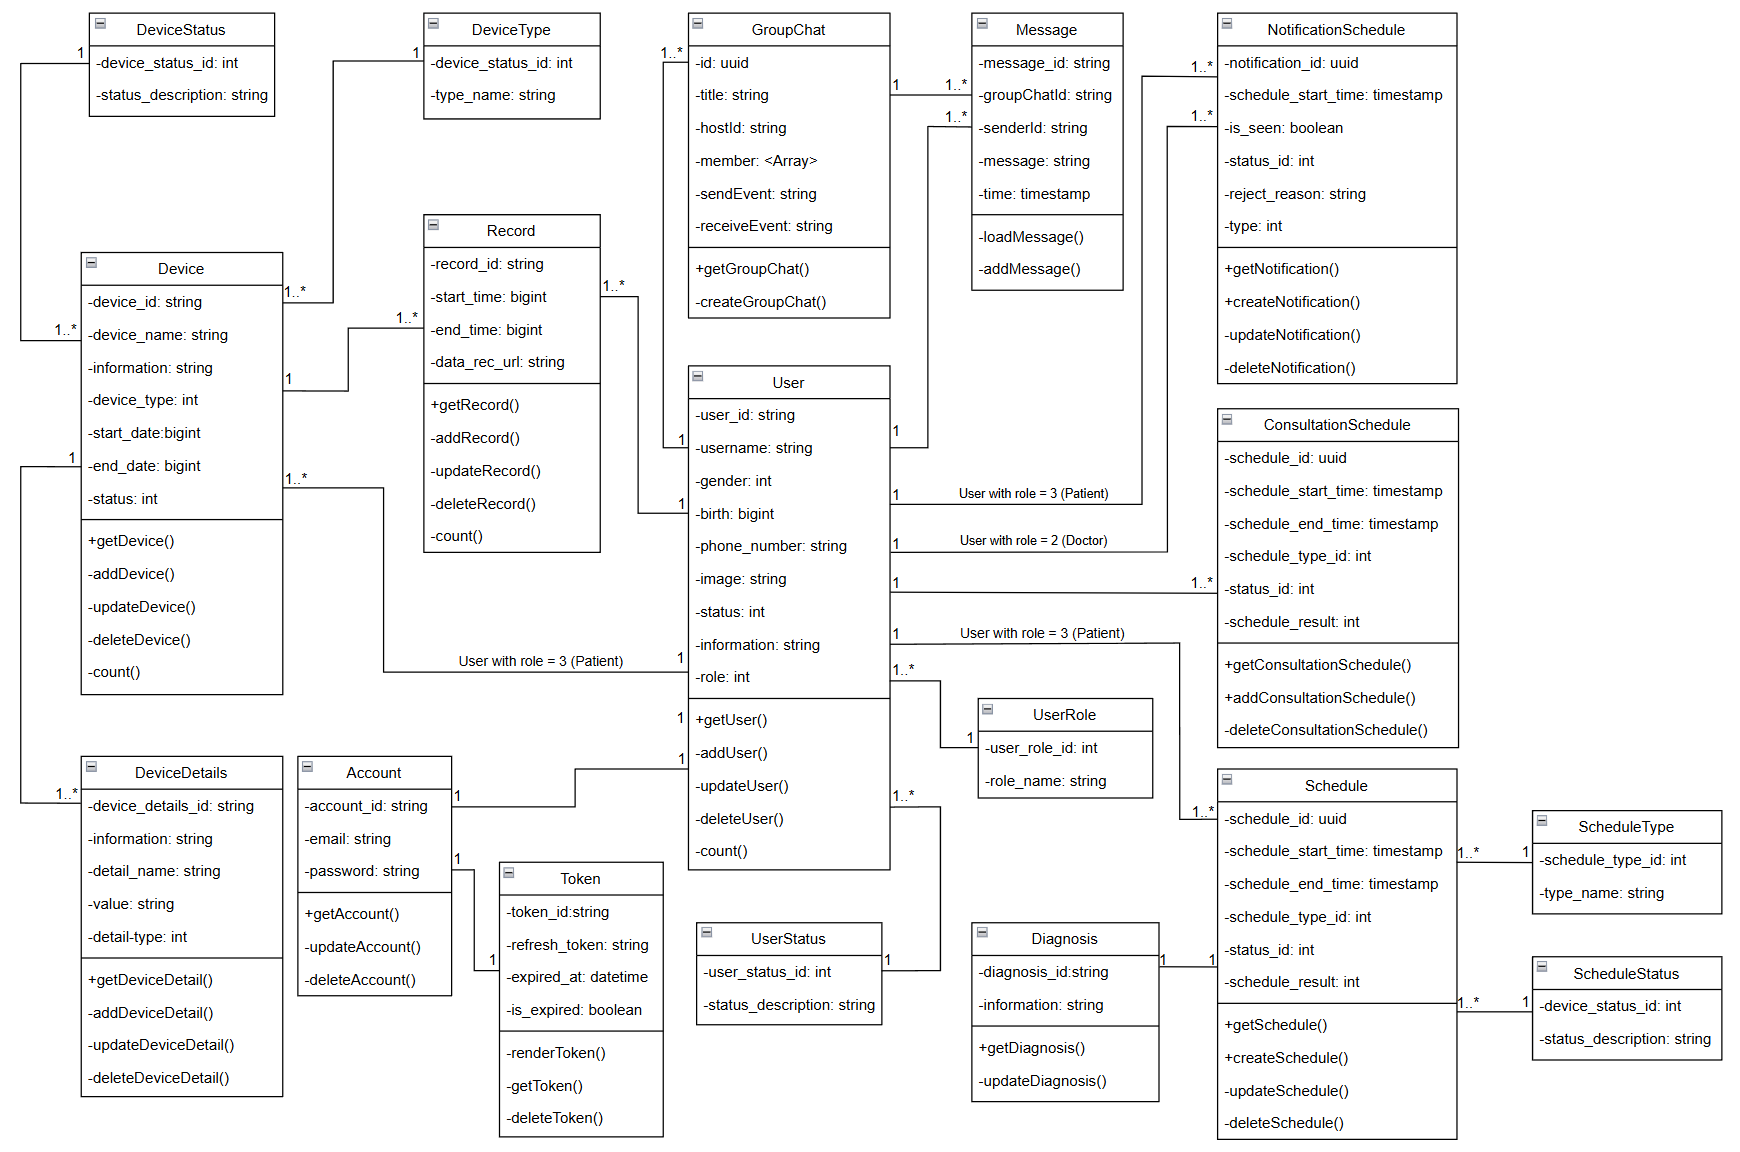
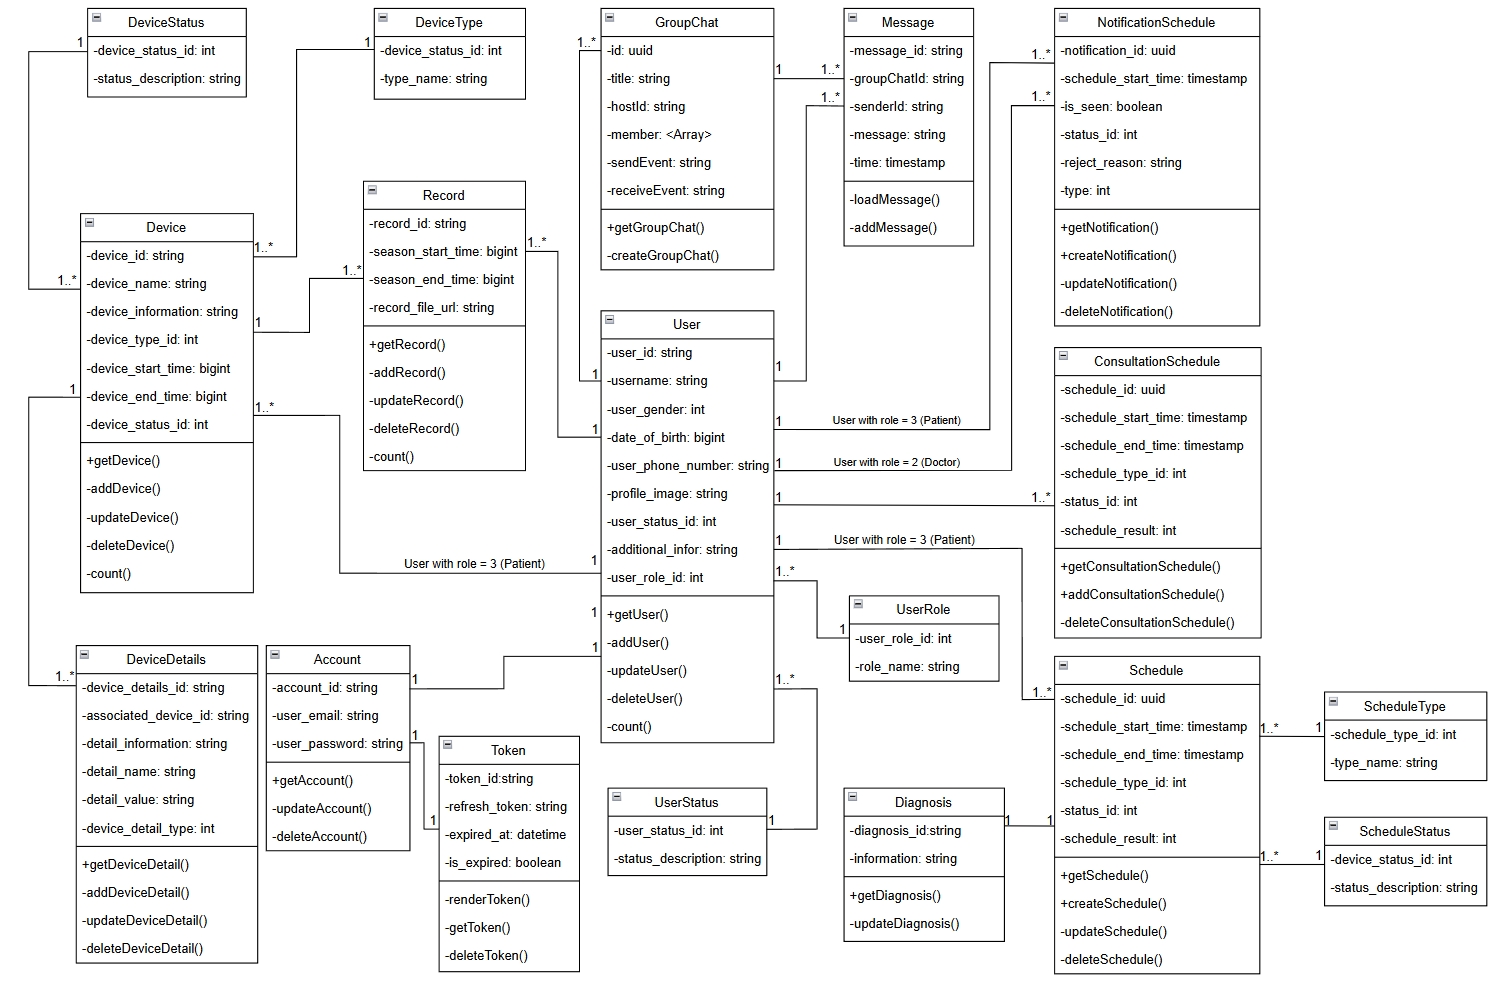
improve(latex): change some field's name in chapter 2

Changed region(s): [[0.0, 0.0, 0.998, 1.0], [0.8109, 0.1822, 0.8421, 0.2429], [0.3119, 0.668, 0.3431, 0.6984]]

diff --git a/latex_20241/Chapter/Main_content/chapter2.tex b/latex_20241/Chapter/Main_content/chapter2.tex
@@ -26,7 +26,7 @@ Chương này trình bày chi tiết quá trình phân tích hệ thống, dựa
 	\end{tabularx}
 	\begin{tabularx}{0.9\textwidth}{|X|X|}
 		\hline
-		\textbf{Tên lớp:} Tài khoản (account)                                     & \textbf{ID:} 0                                                                                           \\
+		\textbf{Tên lớp:} Tài khoản người dùng (account)                          & \textbf{ID:} 0                                                                                           \\
 		\hline
 		\textbf{Mô tả:} Lớp quản lý thông tin tài khoản người dùng trong hệ thống & \textbf{Use case liên quan:}  Đăng ký tài khoản, Quản lý tài khoản cá nhân, Quản lí thông tin người dùng \\
 		\hline
@@ -50,11 +50,11 @@ Chương này trình bày chi tiết quá trình phân tích hệ thống, dựa
 		\textbf{Thuộc tính (Attributes):} & \\
 		id(uuid)
 
-		email(string)
+		user\_email(string)
 
-		password(string)
+		user\_password(string)
 		                                  &
-		role(integer)
+		user\_role(integer)
 
 		createdAt(Datetime)
 
@@ -284,13 +284,19 @@ Chương này trình bày chi tiết quá trình phân tích hệ thống, dựa
 
 		username(string)
 
-		birth(timestamps)
+		user\_role\_id(integer)
 
-		phone\_number(string)
+		date\_of\_birth(timestamps)
+
+		user\_phone\_number(string)
+
+		user\_gender(integer)
 		                                  &
-		image(string)
+		profile\_image(string)
 
-		role(integer)
+		additional\_infor(string)
+
+		user\_status\_id(integer)
 
 		createdAt(Datetime)
 
@@ -457,15 +463,15 @@ Chương này trình bày chi tiết quá trình phân tích hệ thống, dựa
 
 		device\_name(string)
 
-		information(string)
+		device\_information(string)
 
 		device\_type\_id(integer)
 		                                  &
-		status\_id(integer)
+		device\_status\_id(integer)
 
-		start\_time(timestamps)
+		device\_start\_time(timestamps)
 
-		end\_time(timestamps)
+		device\_end\_time(timestamps)
 
 		createdAt(Datetime)
 
@@ -520,15 +526,15 @@ Chương này trình bày chi tiết quá trình phân tích hệ thống, dựa
 		\textbf{Thuộc tính (Attributes):} & \\
 		id(uuid)
 
-		device\_id(string)
+		associated\_device\_id(string)
 
-		detail\_name(string)
+		device\_detail\_name(string)
 
-		detail\_type(integer)
+		device\_detail\_type(integer)
 		                                  &
-		value(string)
+		detail\_value(string)
 
-		information(string)
+		detail\_information(string)
 
 		createdAt(Datetime)
 
@@ -589,11 +595,11 @@ Chương này trình bày chi tiết quá trình phân tích hệ thống, dựa
 
 		device\_id(string)
 
-		data\_rec\_url(string)
+		record\_file\_url(string)
 		                                  &
-		start\_time(string)
+		season\_start\_time(string)
 
-		end\_time(string)
+		season\_end\_time(string)
 
 		createdAt(Datetime)
 
@@ -960,7 +966,7 @@ Chương này trình bày chi tiết quá trình phân tích hệ thống, dựa
 
 		schedule\_id(string)
 
-		information(string)
+		diagnosis\_infor(string)
 		                                  &
 		createdAt(Datetime)
 
@@ -1237,59 +1243,59 @@ Trước tiên, chúng em sẽ tiến hành xác định các thực thể trong
 	\raggedright
 	\begin{tabularx}{\textwidth}{|p{4.5cm}|X|}
 		\hline
-		\bfseries Thực thể               & \bfseries Thuộc tính                                                                                           \\ \hline
+		\bfseries Thực thể               & \bfseries Thuộc tính                                                                                                     \\ \hline
 		Tài khoản                        &
-		ID tài khoản, Địa chỉ email, Mật khẩu truy cập                                                                                                                    \\
+		ID tài khoản, Địa chỉ email đăng ký, Mật khẩu truy cập                                                                                                      \\
 		\hline
 		Token đăng nhập                  &
-		ID token, Token làm mới, Hạn sử dụng, Trạng thái token                                                                                    \\
+		ID token, Token làm mới, Hạn sử dụng, Trạng thái token                                                                                                      \\
 		\hline
 		Vai trò người dùng               &
-		ID vai trò, Tên vai trò, Mô tả vai trò                                                                                                            \\
+		ID vai trò, Tên vai trò, Mô tả vai trò                                                                                                                      \\
 		\hline
 		Trạng thái người dùng            &
-		ID trạng thái, Tên trạng thái, Mô tả trạng thái                                                                                                   \\
+		ID trạng thái người dùng, Tên trạng thái, Mô tả trạng thái                                                                                                  \\
 		\hline
 		Người dùng                       &
 		ID người dùng, Tên đầy đủ, Ngày tháng năm sinh, Giới tính, Số liên lạc, Vai trò người dùng, Trạng thái hoạt động, Đường dẫn ảnh đại diện, Thông tin bổ sung \\
 		\hline
 		Loại thiết bị                    &
-		ID loại thiết bị, Tên loại thiết bị, Mô tả loại thiết bị                                                                                          \\
+		ID loại thiết bị, Tên loại thiết bị, Mô tả loại thiết bị                                                                                                    \\
 		\hline
 		Trạng thái thiết bị              &
-		ID trạng thái, Tên trạng thái, Mô tả trạng thái                                                                                                   \\
+		ID trạng thái thiết bị, Tên trạng thái, Mô tả trạng thái                                                                                                    \\
 		\hline
 		Thiết bị                         &
-		ID thiết bị, Tên thiết bị, Loại thiết bị, Thông tin chi tiết về thiết bị, Tình trạng hiện tại, Ngày bắt đầu thời gian mượn, Ngày kết thúc thời gian mượn                                           \\
+		ID thiết bị, Tên thiết bị, Loại thiết bị, Thông tin chi tiết về thiết bị, Tình trạng hiện tại, Ngày bắt đầu thời gian mượn, Ngày kết thúc thời gian mượn    \\
 		\hline
 		Thông số kỹ thuật                &
-		ID thông số, Tên thông số, Loại thông số, Giá trị thông số, Mô tả chi tiết thông số                                                                    \\
+		ID thông số, Tên thông số, Loại thông số, Giá trị thông số, Mô tả chi tiết thông số                                                                         \\
 		\hline
 		Dữ liệu phiên đo                 &
-		ID dữ liệu phiên đo, Đường dẫn lưu trữ phiên đo, Thời gian bắt đầu thu thập dữ liệu, Thời gian kết thúc thu thập dữ liệu                                          \\
+		ID dữ liệu phiên đo, Đường dẫn lưu trữ phiên đo, Thời gian bắt đầu thu thập dữ liệu, Thời gian kết thúc thu thập dữ liệu                                    \\
 		\hline
 		Loại lịch hẹn                    &
-		ID loại lịch hẹn, Tên loại lịch hẹn, Mô tả loại lịch hẹn                                                                                          \\
+		ID loại lịch hẹn, Tên loại lịch hẹn, Mô tả loại lịch hẹn                                                                                                    \\
 		\hline
 		Trạng thái lịch hẹn              &
-		ID trạng thái, Tên trạng thái, Mô tả trạng thái                                                                                                   \\
+		ID trạng thái, Tên trạng thái, Mô tả trạng thái                                                                                                             \\
 		\hline
 		Lịch hẹn                         &
-		ID lịch hẹn, Thời gian bắt đầu lịch hẹn, Thời gian kết thúc lịch hẹn, Kết quả lịch hẹn                                                            \\
+		ID lịch hẹn, Thời gian bắt đầu lịch hẹn, Thời gian kết thúc lịch hẹn, Kết quả lịch hẹn                                                                      \\
 		\hline
 		Lịch hẹn của bác sĩ              &
-		ID lịch hẹn của bác sĩ                                                                                                                            \\
+		ID lịch hẹn của bác sĩ, Thông tin lịch hẹn, Thông tin bác sĩ                                                                                                \\
 		\hline
 		Chẩn đoán cho bệnh nhân          &
-		ID chẩn đoán, Thông tin chẩn đoán                                                                                                                 \\
+		ID chẩn đoán, Thông tin chẩn đoán                                                                                                                           \\
 		\hline
 		Thông báo liên quan đến lịch hẹn &
 		ID thông báo, Loại thông báo (gửi cho bác sĩ hoặc gửi cho bệnh nhân), Thời gian bắt đầu lịch hẹn, Nội dung thông báo,
 		Trạng thái thông báo (nhắc hẹn, được bác sĩ chấp nhận, đang chờ xác nhận, từ chối, đặt lịch tái khám thành công, bị hủy tự động),
-		Trạng thái đã xem, Lý do từ chối lịch (nếu có)                                                                                                    \\
+		Trạng thái đã xem, Lý do từ chối lịch (nếu có)                                                                                                              \\
 		\hline
 		Tin nhắn                         &
-		ID tin nhắn, Người gửi tin nhắn, Nhóm trò chuyện nhận tin nhắn, Nội dung tin nhắn, Thời điểm gửi										 \\
+		ID tin nhắn, Người gửi tin nhắn, Nhóm trò chuyện nhận tin nhắn, Nội dung tin nhắn, Thời điểm gửi                                                            \\
 		\hline
 		Nhóm trò chuyện                  &
 		ID nhóm trò chuyện, Tên nhóm trò chuyện, Người tạo nhóm, Danh sách thành viên nhóm, Sự kiện gửi tin nhắn, Sự kiện nhận tin nhắn                             \\
@@ -1301,11 +1307,11 @@ Dựa trên bảng thực thể và thuộc tính đã hoàn thiện, mô hình 
 
 \begin{figure}[H]
 	\centering
-	\includegraphics[width=15cm,height=9.5cm]{Images/System/fmECG_connection_entity.png}
+	\includegraphics[width=15.5cm,height=9cm]{Images/System/fmECG_connection_entity.png}
 	\caption[Mô hình thực thể liên kết]{\bfseries \fontsize{12pt}{0pt}
-	\selectfont Mô hình thực thể liên kết}
+		\selectfont Mô hình thực thể liên kết}
 	\label{entity-diag}
-  \end{figure}
+\end{figure}
 
 \subsection{Kết luận}
 
